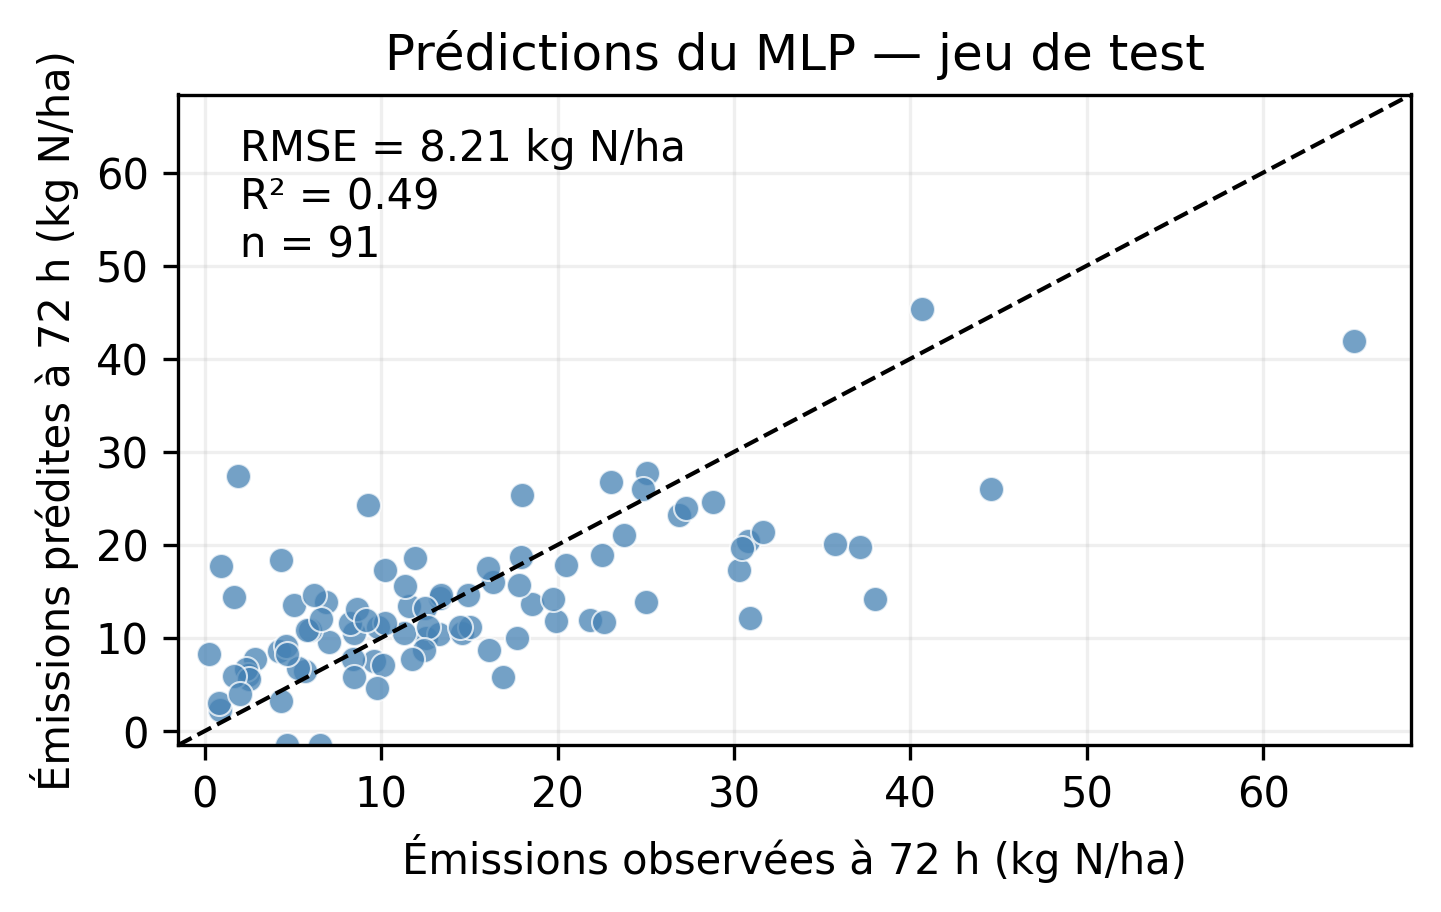
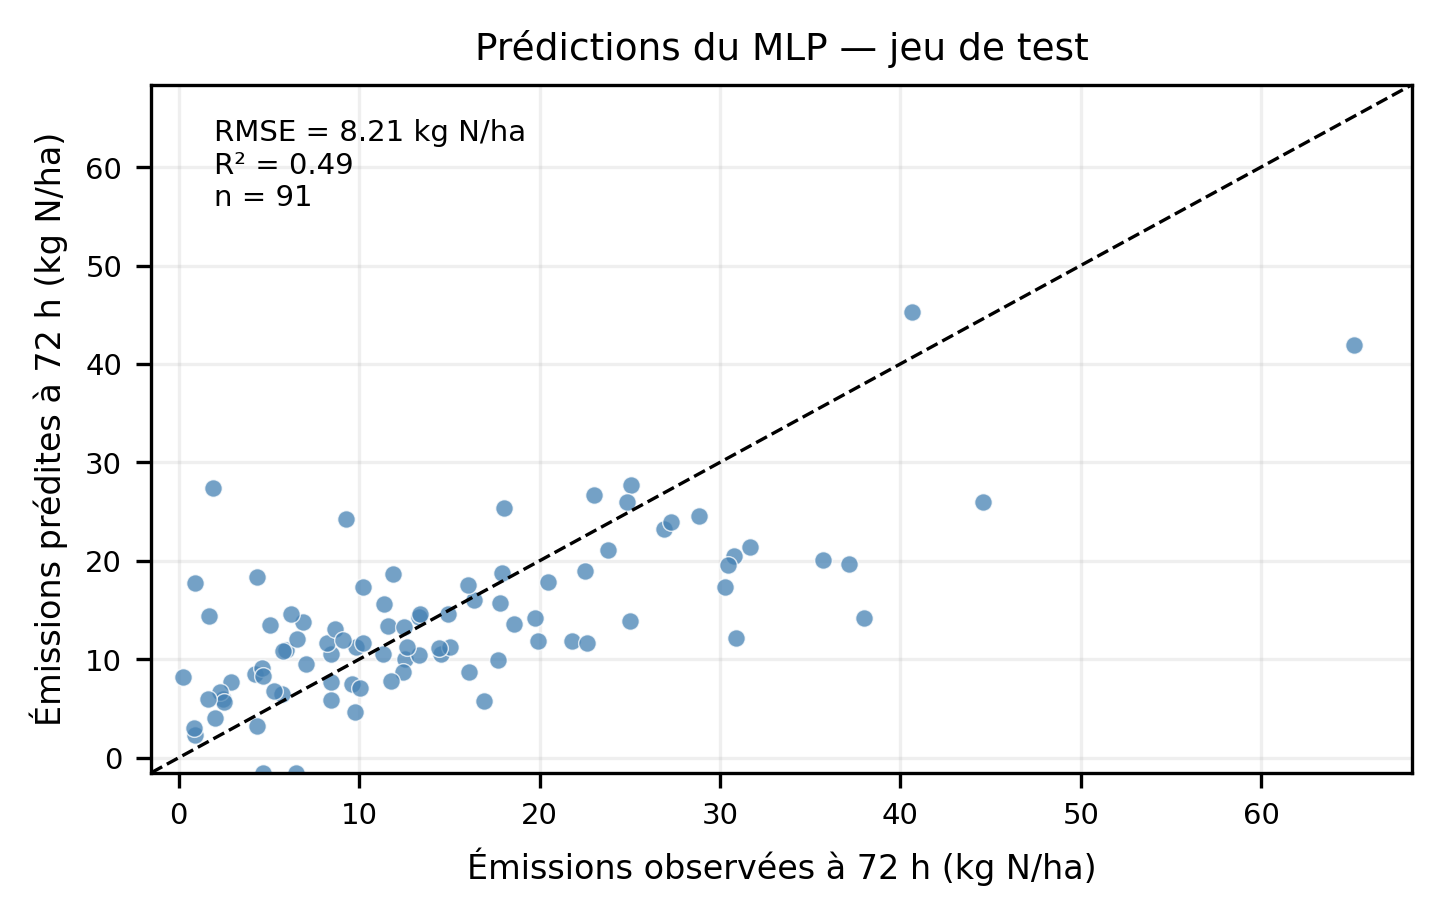
Minor corrections

diff --git a/scripts/training.py b/scripts/training.py
@@ -203,8 +203,8 @@ limits = [
 fig, ax = plt.subplots (figsize=(4.9, 3.15))
 
 ax.scatter (observed, predicted, color="steelblue", alpha=0.75,
-            edgecolors="white", linewidths=0.5)
-ax.plot (limits, limits, color="black", linestyle="--", linewidth=1)
+            edgecolors="white", linewidths=0.35, s=18)
+ax.plot (limits, limits, color="black", linestyle="--", linewidth=0.8)
 
 ax.set (
     xlabel = "Émissions observées à 72 h (kg N/ha)",
@@ -213,6 +213,10 @@ ax.set (
     xlim = limits,
     ylim = limits,
 )
+ax.set_xlabel ("Émissions observées à 72 h (kg N/ha)", fontsize=8)
+ax.set_ylabel ("Émissions prédites à 72 h (kg N/ha)", fontsize=8)
+ax.set_title ("Prédictions du MLP — jeu de test", fontsize=9)
+ax.tick_params (labelsize=7)
 ax.grid (alpha=0.2)
 ax.set_axisbelow (True)
 
@@ -223,6 +227,7 @@ ax.text (
     f"n = {len(data_predictions)}",
     transform = ax.transAxes,
     va = "top",
+    fontsize = 7,
 )
 
 fig.tight_layout()
